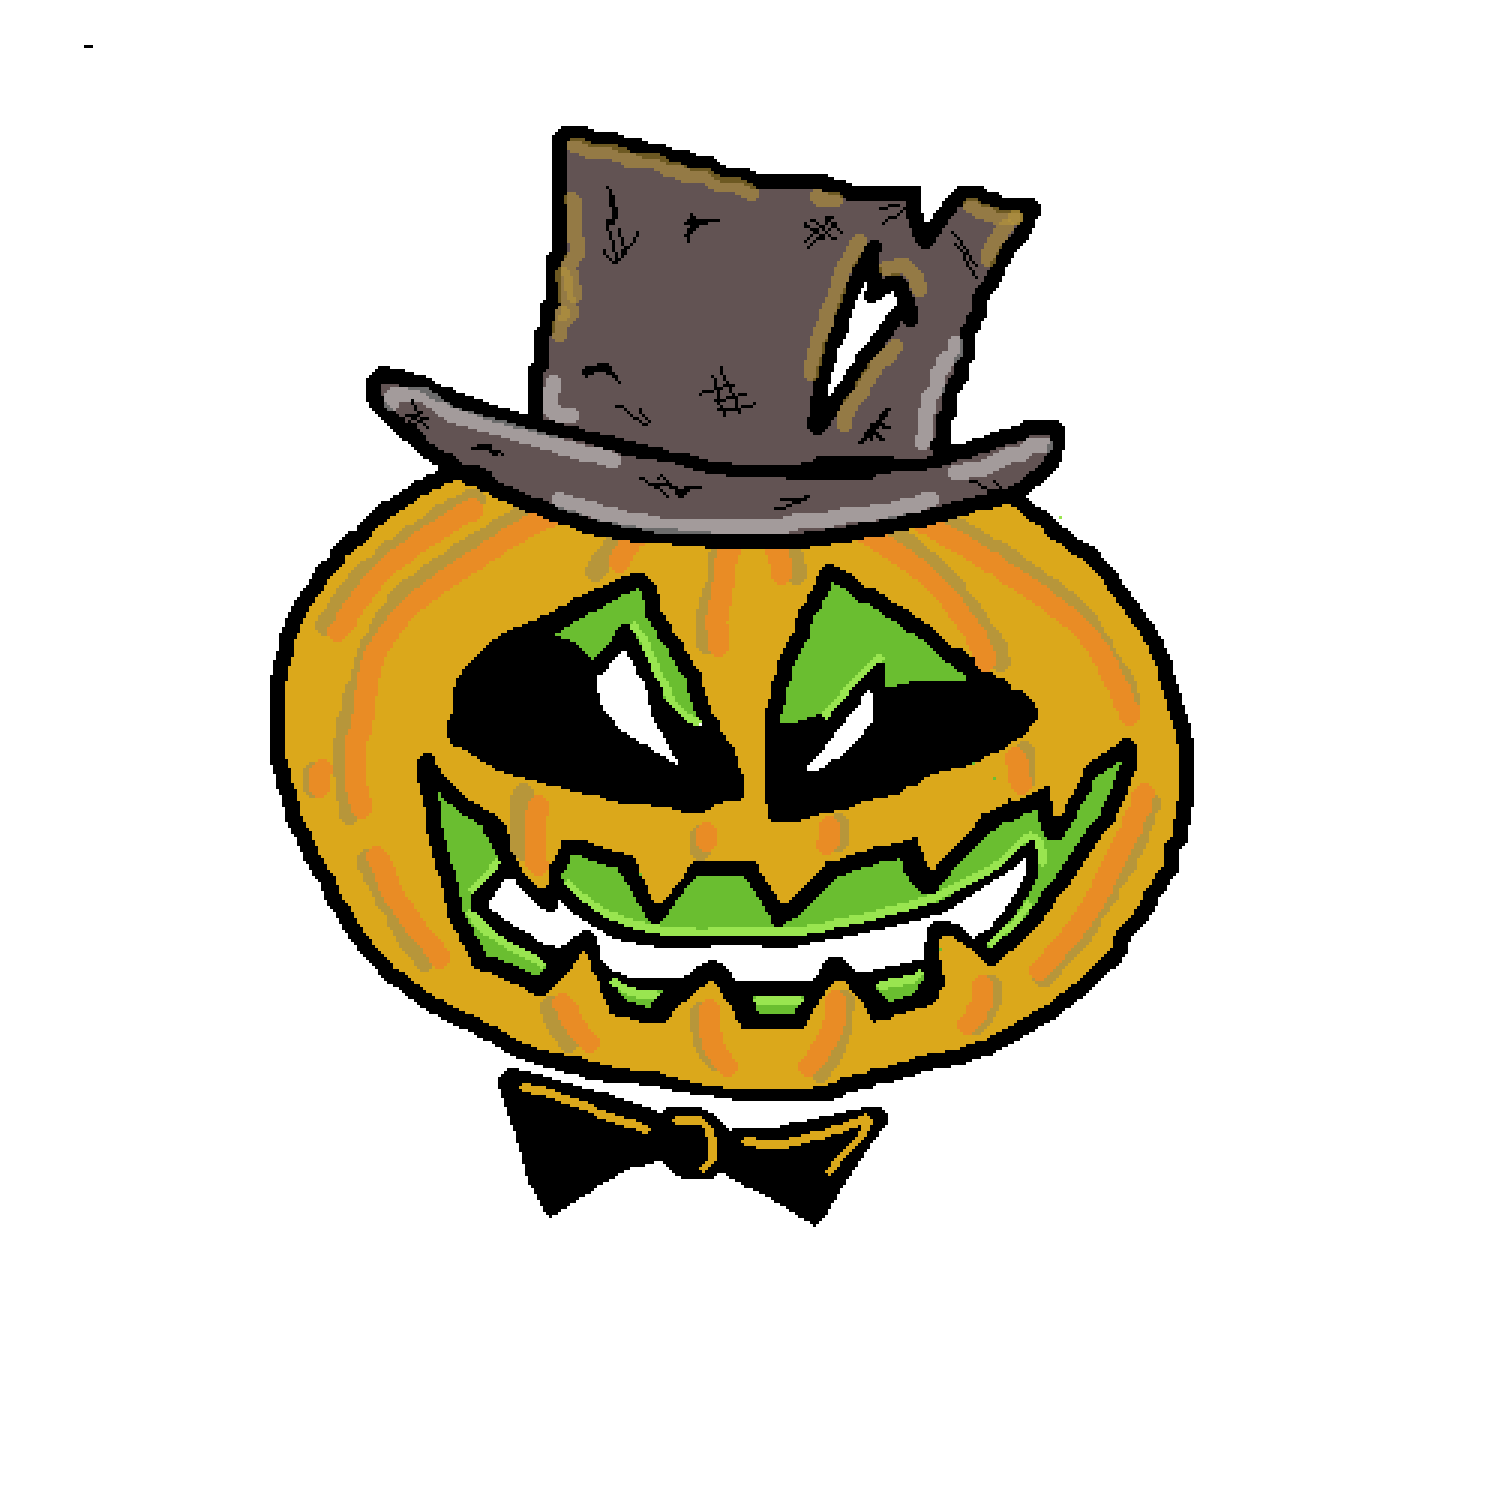
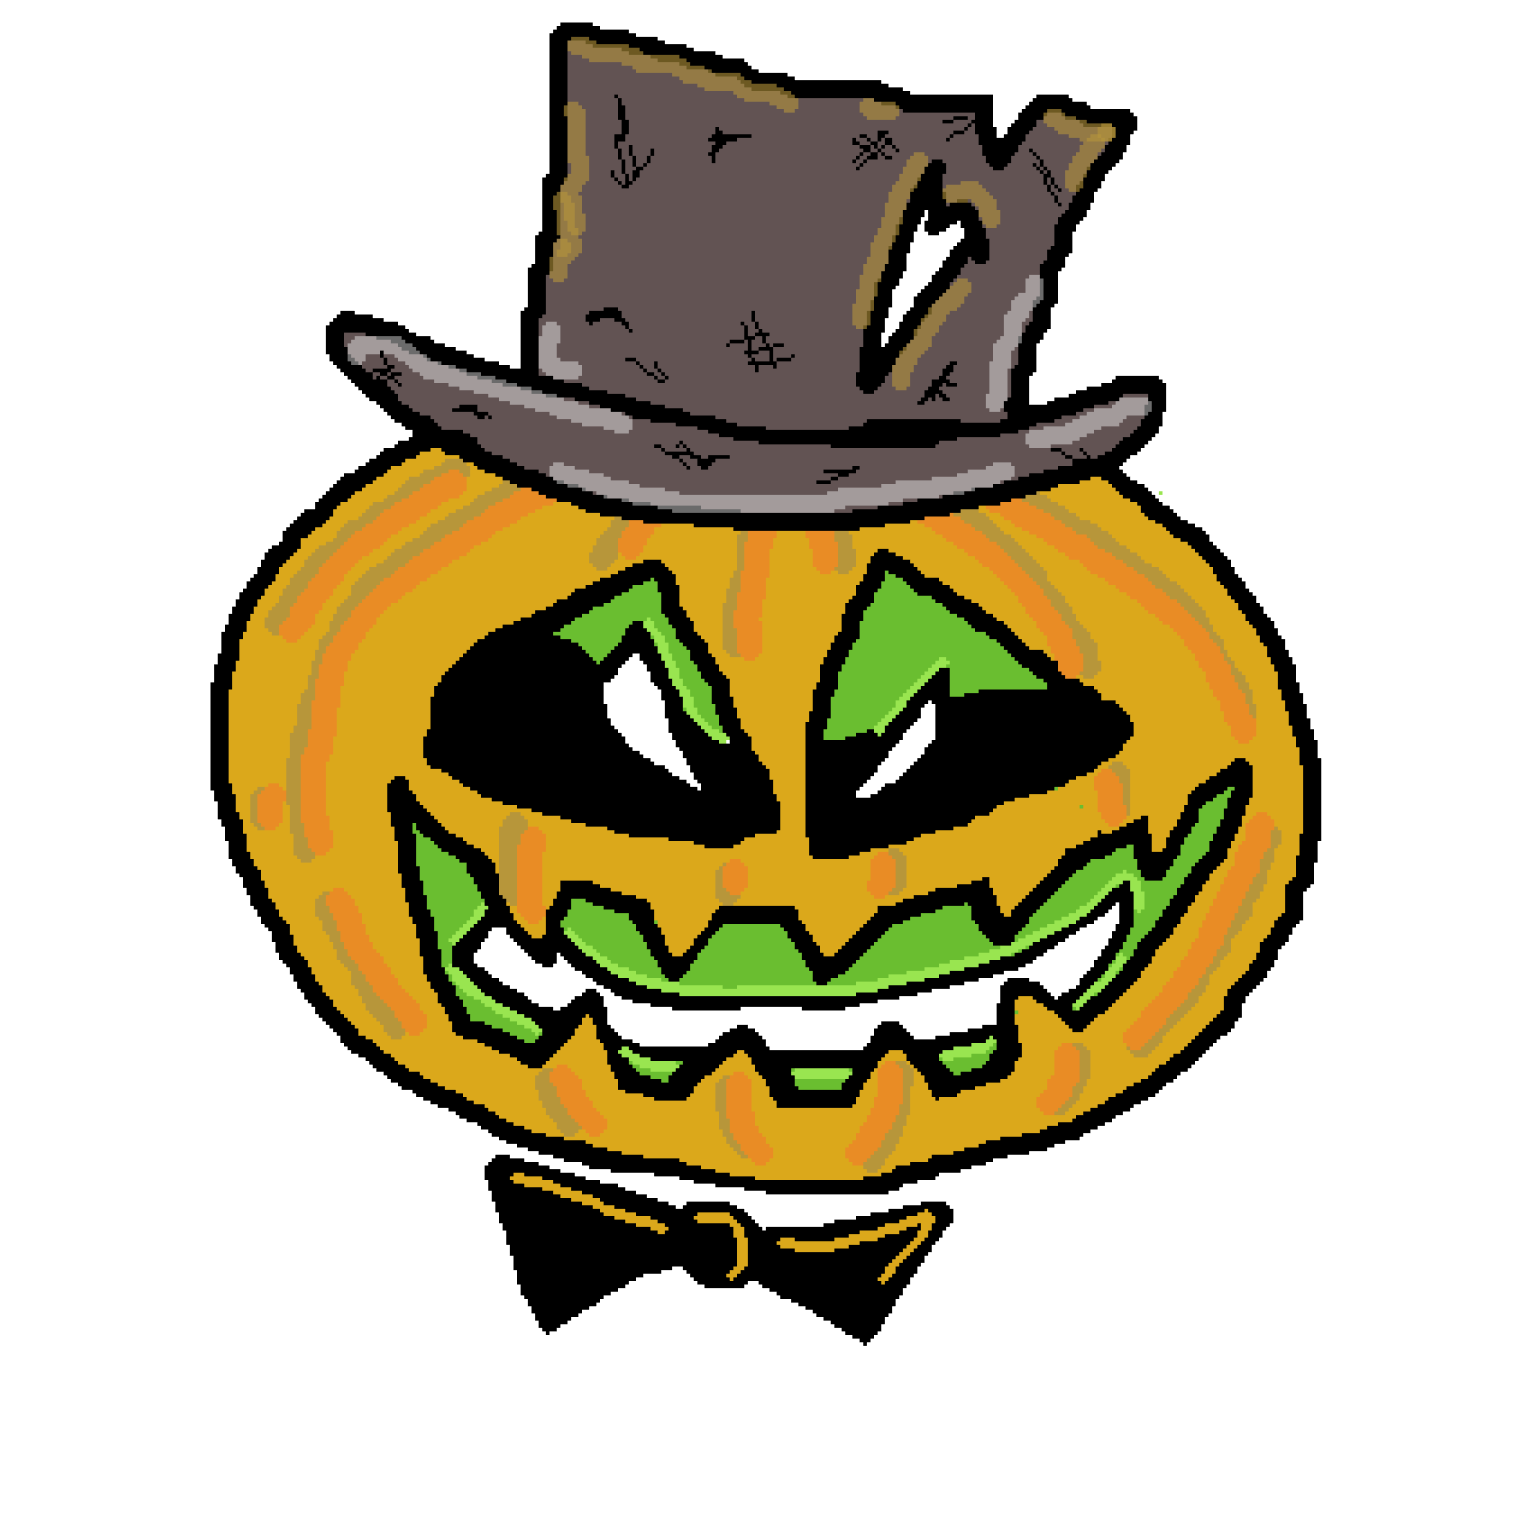
fixed punch and halloween skin

Changed region(s): [[0.1227, 0.0, 0.8587, 0.8893]]

diff --git a/normaldo_gaming/lib/game/components/buffs&debuffs/punch.dart b/normaldo_gaming/lib/game/components/buffs&debuffs/punch.dart
@@ -39,7 +39,7 @@ class Punch extends PositionComponent
     Set<Vector2> intersectionPoints,
     PositionComponent other,
   ) {
-    if (other is Normaldo) {
+    if (other is Normaldo && !other.immortal) {
       audio.playSfx(Sfx.binCrash);
       other.takeHit();
       removeFromParent();
